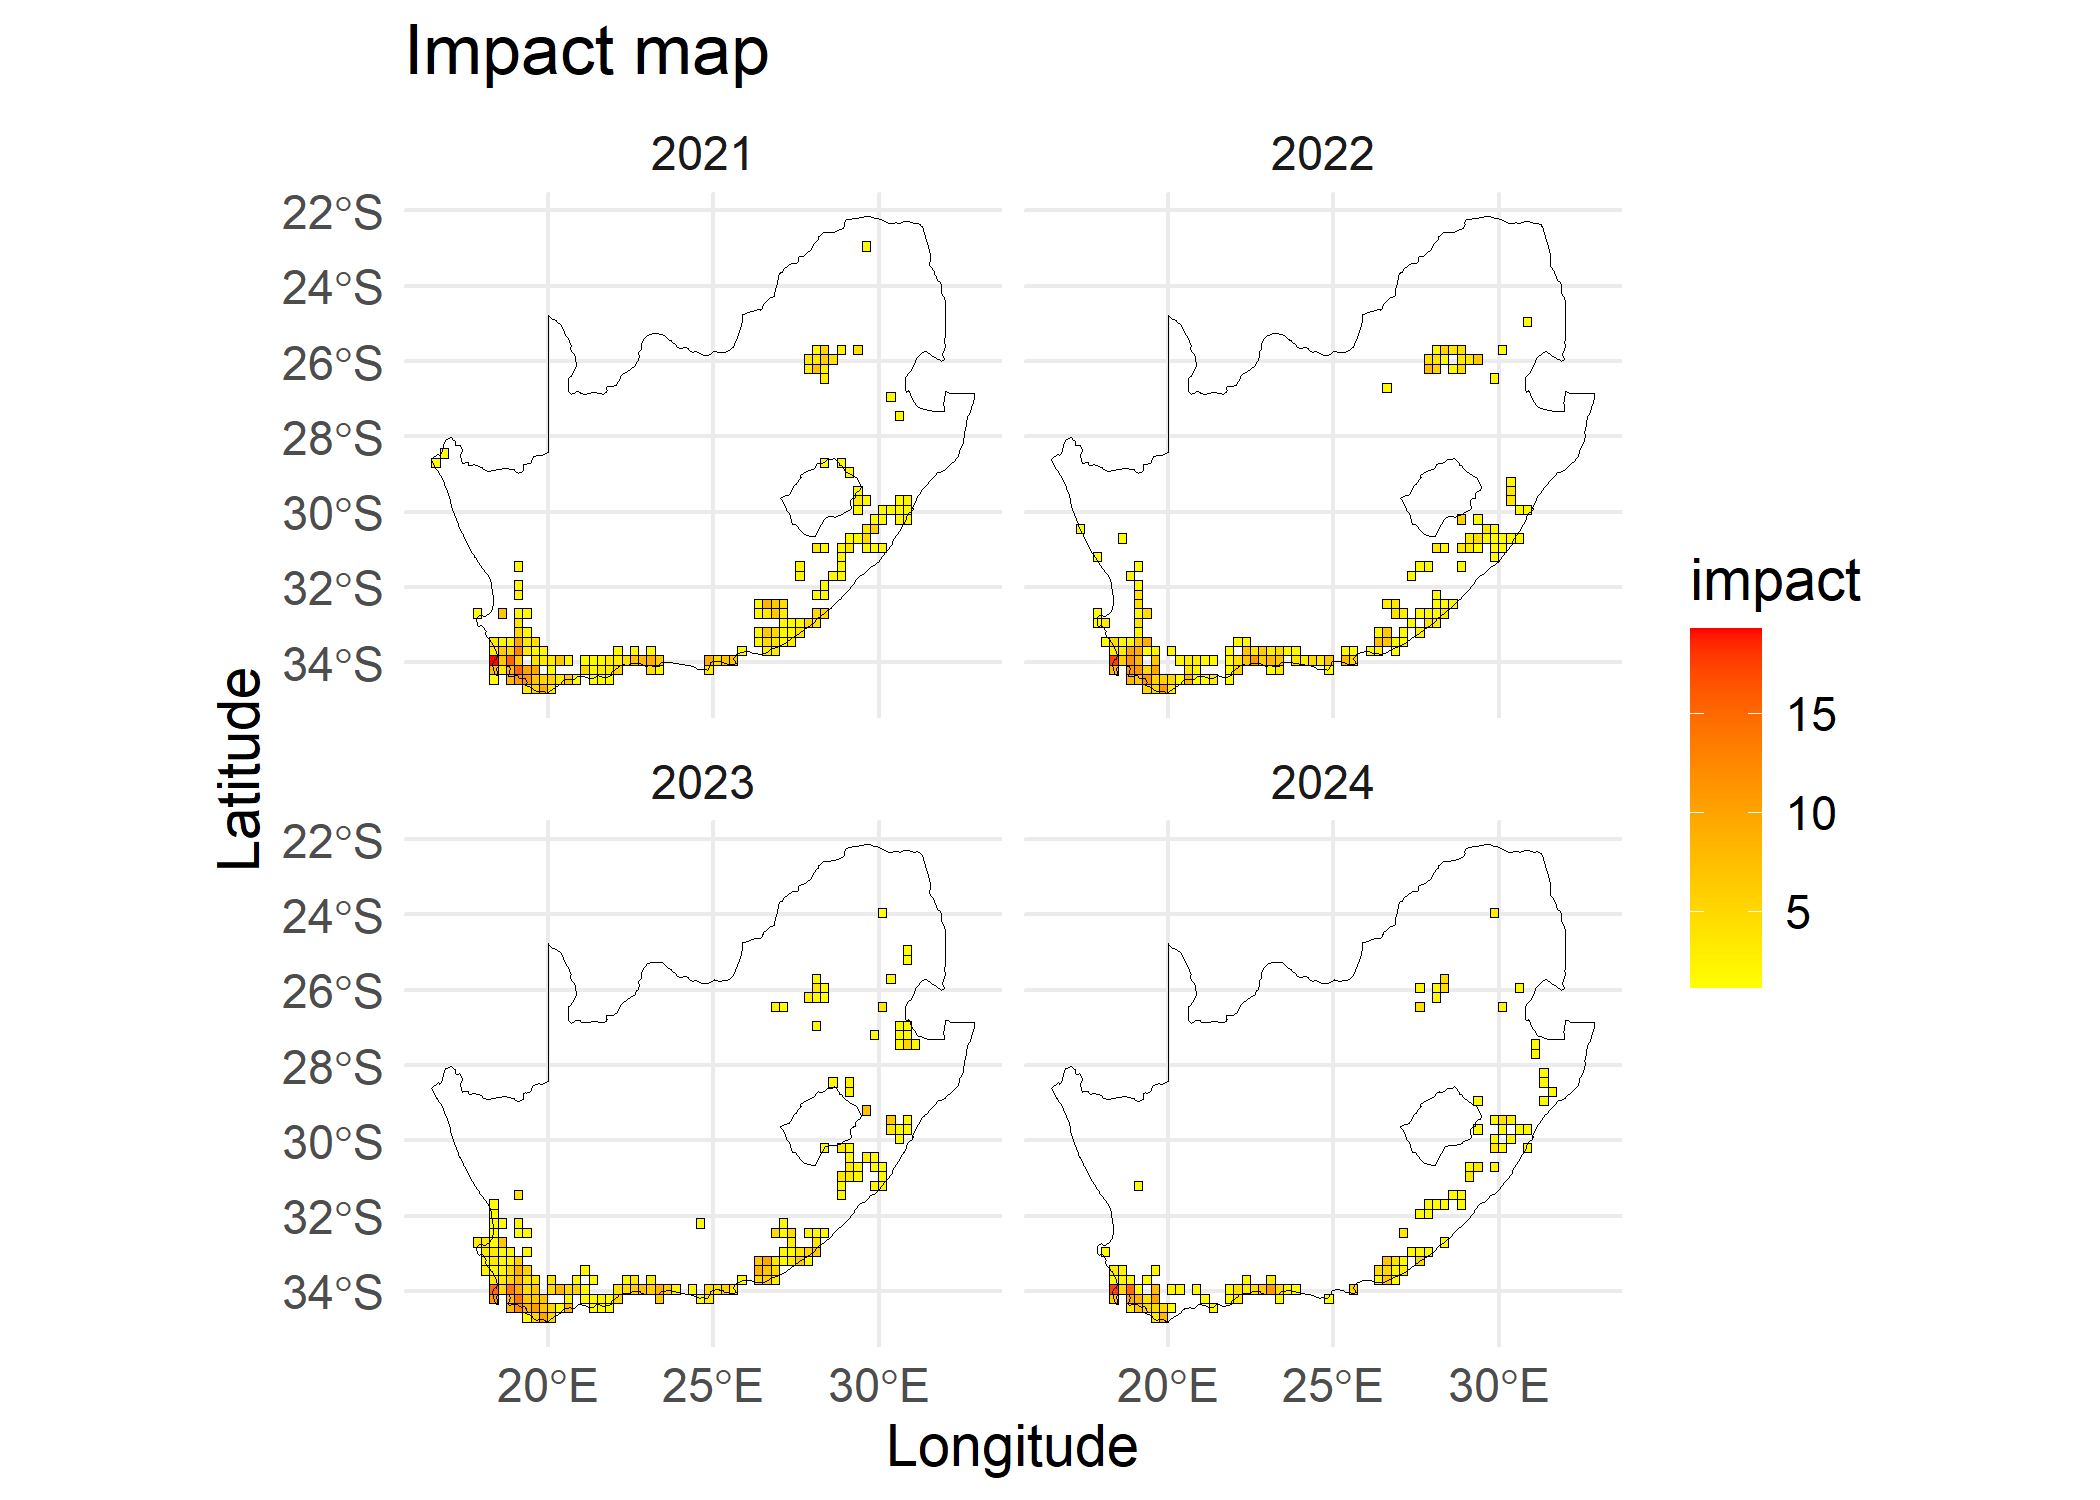
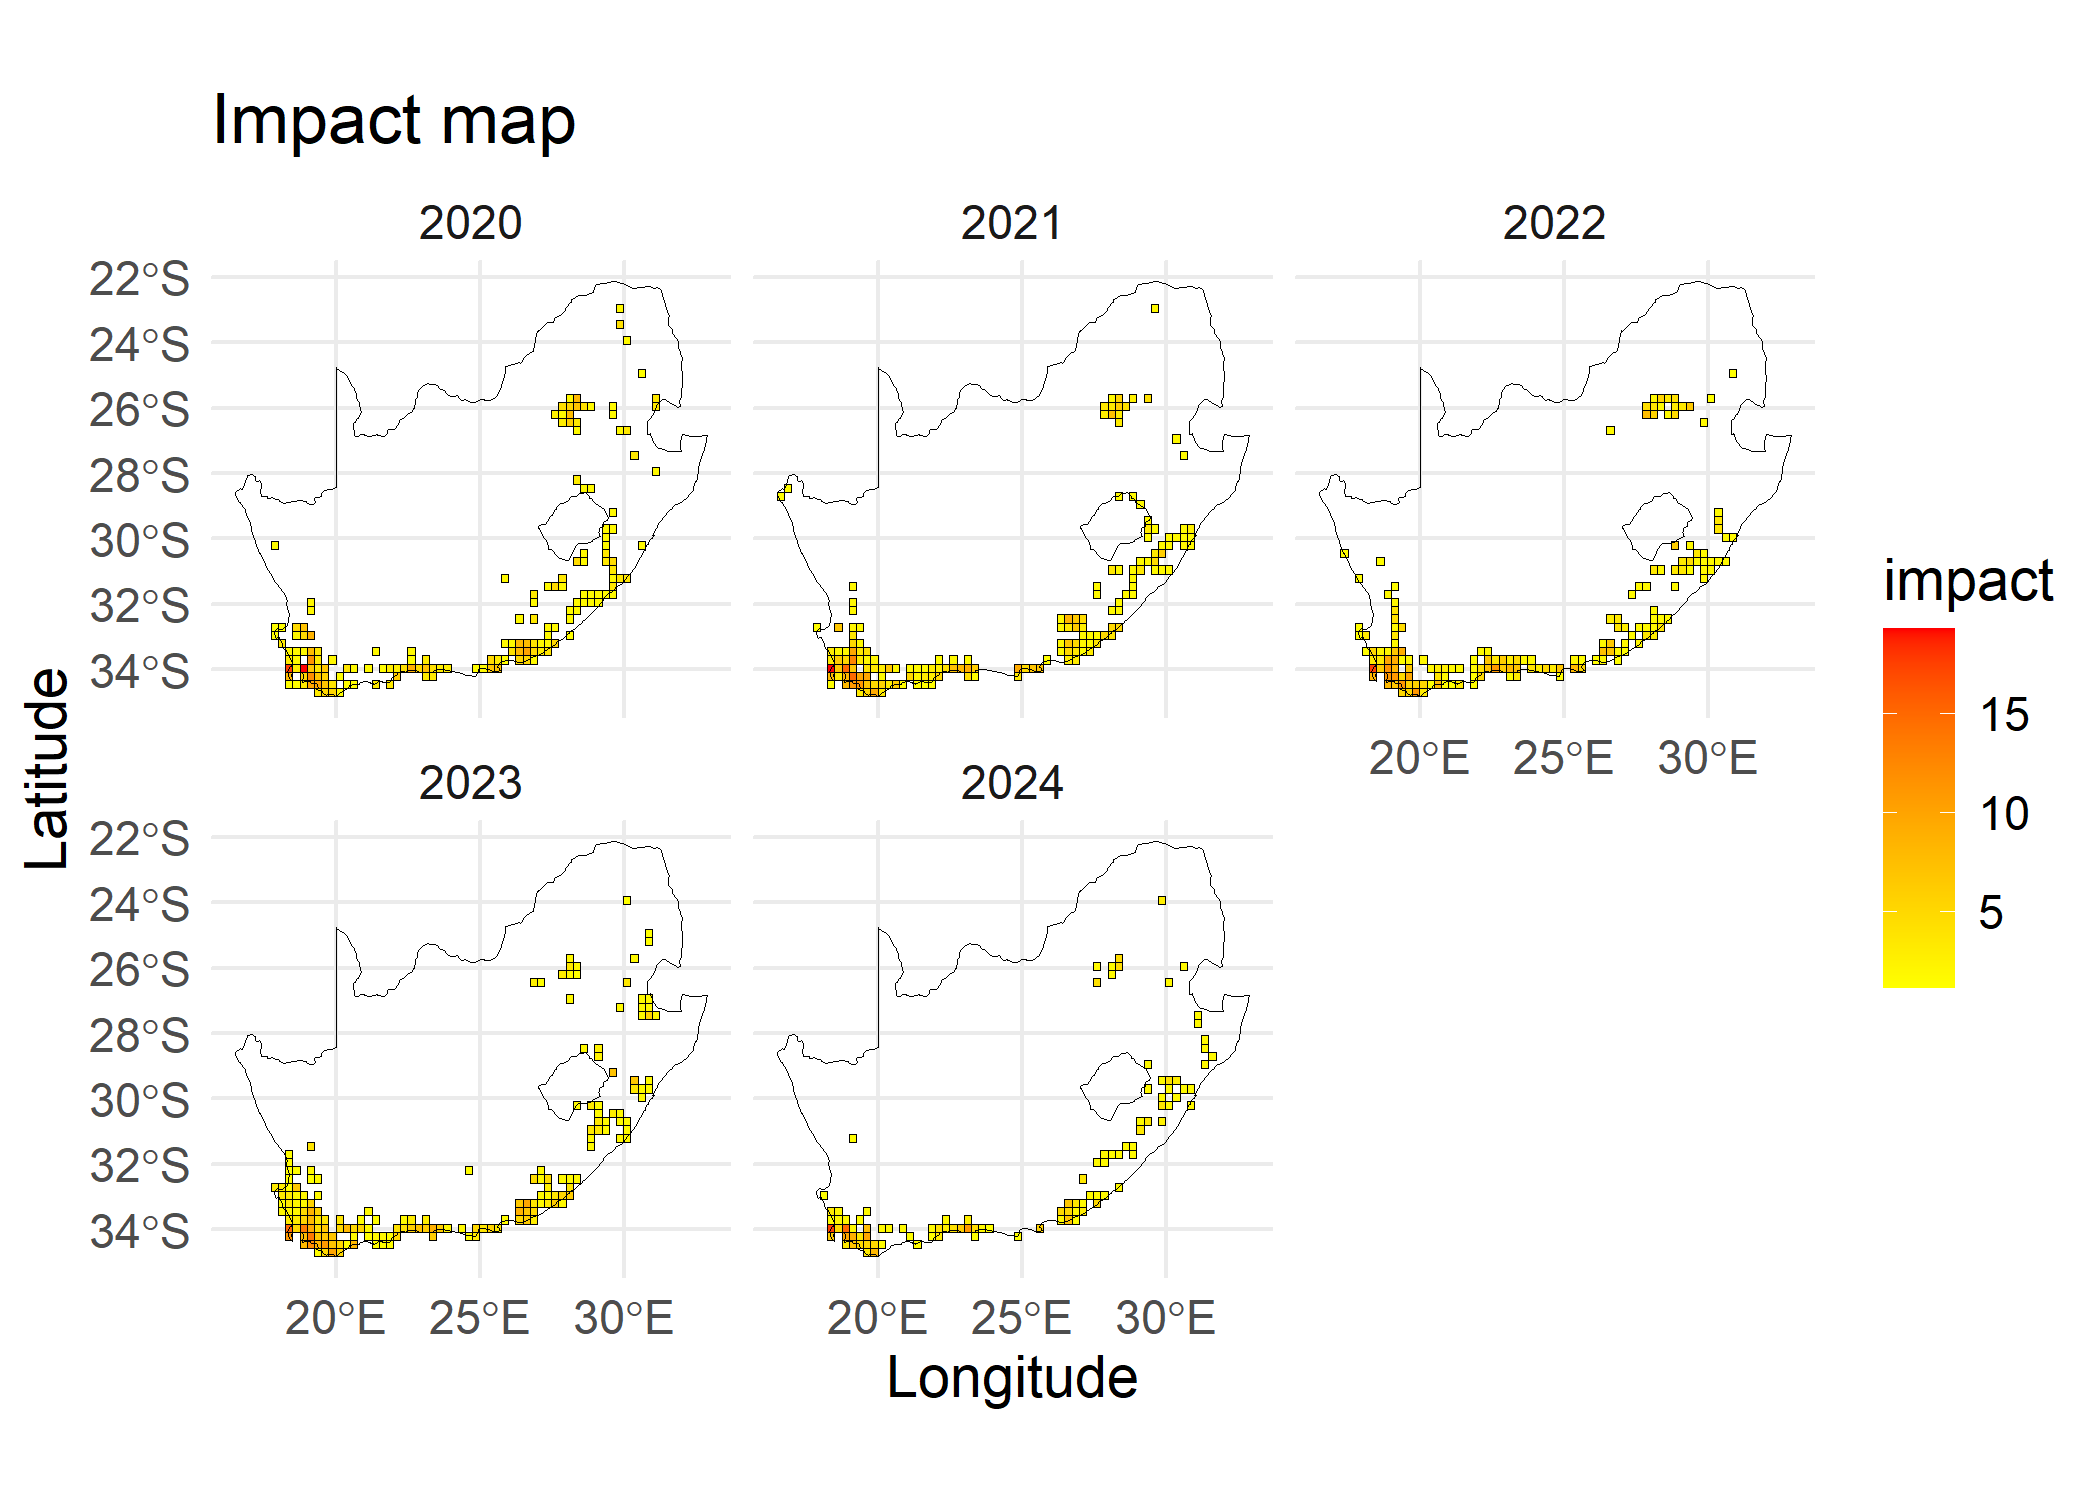
add repo status

diff --git a/README.md b/README.md
@@ -6,6 +6,8 @@
 <!-- badges: start -->
 
 [![R-CMD-check](https://github.com/b-cubed-eu/impIndicator/actions/workflows/R-CMD-check.yaml/badge.svg)](https://github.com/b-cubed-eu/impIndicator/actions/workflows/R-CMD-check.yaml)
+[![repo
+status](https://www.repostatus.org/badges/latest/wip.svg)](https://www.repostatus.org/#wip)
 <!-- badges: end -->
 
 The goal of **impIndicator** is to allow users to seamlessly calculate
@@ -225,9 +227,9 @@ siteImpact<-site_impact(cube=acacia_cube$cube,
                        type = "mean cumulative",
                        coords=acacia_cube$coords)
 
-#impact risk map
+#impact map
 #visualize last four years for readability
-plot(x=siteImpact, region.sf = southAfrica_sf, first_year=2021)
+plot(siteImpact, region.sf = southAfrica_sf, first_year=2020)
 ```
 
 <img src="man/figures/README-site impact-1.png" width="100%" />
